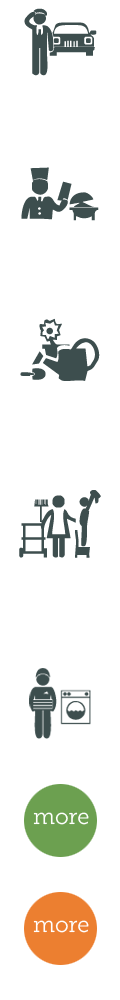
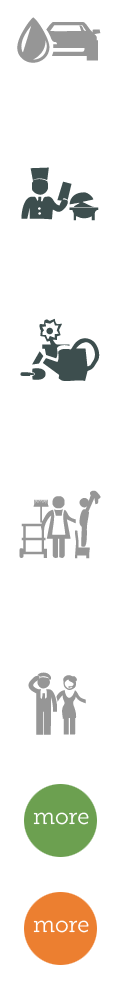
Updated password alignment and services
git-svn-id: https://subversion.assembla.com/svn/kushghar/trunk@26 0e8525e9-3983-421d-bfb9-d0e812aa3877

diff --git a/KushGhar/css/styles.css b/KushGhar/css/styles.css
@@ -153,7 +153,7 @@ textarea, input[type="text"], input[type="password"], input[type="datetime"], in
 .services ul li{ border-left:1px solid #ccc; float:left; }
 .services ul li .services_last-child{ border-right:1px solid #ccc; }
 .services ul li a{text-align:center; margin:auto; width:100%}
-.services ul li a.housecleaning, .services ul li a.gardening, .services ul li a.laundry, .services ul li a.driver, .services ul li a.chef, .services ul li a.more, .services ul li a:hover{ background-image:url(../images/services_icon.png) ; width:120px;height:100px;}
+.services ul li a.housecleaning, .services ul li a.gardening, .services ul li a.laundry, .services ul li a.driver, .services ul li a.chef, .services ul li a.more, .services ul li a:hover{ background-image:url(../images/services_icon.png) ; width:140px;height:100px;}
 .services ul li a:hover, .services ul li a:focus{ text-decoration:none;}
 .services ul li a span{ font-size:18px; font-family:MuseoSlab700; color:#f58220; text-align:center; display:block; text-decoration:none; padding-top:80px}
 .services ul li a:hover span{color:#6ca050; text-decoration:none}
@@ -256,6 +256,7 @@ ul.header_profile{ list-style:none; margin:0; padding:0}
 	
 	}
 	@media (max-width: 320px) {
+            .welcome_text{font-size:12px;}
 		.header_menu_items{ float:none}
 		.getStarted_dd_div, .Login_dd_div{left:-35px;text-align:left; width:285px}
 		

diff --git a/KushGhar/protected/views/user/basicinfo.php b/KushGhar/protected/views/user/basicinfo.php
@@ -219,7 +219,7 @@
                                         <?php   echo CHtml::ajaxButton('Continue', array('user/basicinfo'), array(
                                                         'type' => 'POST',
                                                         'dataType' => 'json',
-                                                        'success' => 'function(data,status,xhr) { addBasicInformationhandler(data,status,xhr);}'), array('class' => 'btn btn-large'));
+                                                        'success' => 'function(data,status,xhr) { addBasicInformationhandler(data,status,xhr);}'), array('class' => 'btn btn-primary'));
                                          ?>
                                         </div>
                                     </div>
@@ -237,6 +237,7 @@
                                   )
                             ));?>
                             <?php echo $form->error($updatedPassword, 'error'); ?>
+                            <hr> 
                             <fieldset>
                                 <div class="row-fluid">
                                     <div class=" span4">
@@ -250,11 +251,12 @@
                                         <?php echo $form->error($updatedPassword, 'RepeatPassword'); ?>
                                     </div>
                                     <div class=" span4">
-                                       <?php echo CHtml::ajaxButton('Update', array('user/updatedPsw'), array(
+                                        <div  class=" paddingT30">
+                                       <?php echo CHtml::ajaxButton('Update Password', array('user/updatedPsw'), array(
                                             'type' => 'POST',
                                             'dataType' => 'json',
-                                            'success' => 'function(data,status,xhr) { updatePasswordhandler(data,status,xhr);}'), array('class' => 'btn btn-large', 'type' => 'submit'));
-                                    ?>
+                                            'success' => 'function(data,status,xhr) { updatePasswordhandler(data,status,xhr);}'), array('class' => 'btn btn-primary', 'type' => 'submit'));
+                                    ?></div>
                                     </div>
                                 </div>
 

diff --git a/KushGhar/protected/views/layouts/header_prelogin.php b/KushGhar/protected/views/layouts/header_prelogin.php
@@ -70,14 +70,17 @@
     <header class="inner_header">
         <div class="container">
             <div class="row-fluid">
+
+                <div class="pull-left">
+
                 <?php if (!empty($this->session['UserId'])) { ?>
-                <div class="span3">
+                
                     <a href="/user/basicinfo"><img src="<?php echo Yii::app()->request->baseUrl; ?>/images/inner_top_logo.png" alt="logo" class="logo"></a>
                 </div>
             
-                <div class="span8">
+                <div class="pull-right">
                     <ul class=" pull-right header_profile">
-                        <li class=" pull-left welcome_text">Welcome <?php echo $this->session['firstName']; ?></li>
+                        <li id="welcome" class=" pull-left welcome_text">Welcome <?php echo $this->session['firstName']; ?></li>
                         <li class=" pull-left  header_profile_settings dropdown">
                             <a data-original-title="Register" href="#"  data-placement="bottom"  class=" headeranchor" data-toggle="dropdown" id="drop3">
                                 <img src="<?php if ($this->session['LoginPic'] == '') { echo '/images/dummy_pp.jpg';} else {echo $this->session['LoginPic'];} ?>" >

diff --git a/KushGhar/protected/views/site/index.php b/KushGhar/protected/views/site/index.php
@@ -79,12 +79,11 @@ one home at a time</div>
    <div class="row-fluid paddingT10" >
    <div class="services">
    <ul>
-   	<li><a href="#" class="housecleaning"> <span>Cleaning</span> </a></li>
-    <li><a href="#" class="gardening"><span>Gardening</span></a></li>
-    <li><a href="#" class="laundry"><span>Laundry</span></a></li>
-    <li><a href="#" class="driver"><span>Driver</span></a></li>
-    <li> <a href="#" class="chef"><span>Chef</span></a></li>
-    <li><a href="#" class="more"></a></li>
+        <li><a href="#" class="housecleaning"> <span>Cleaning</span> </a></li>
+        <li><a href="#" class="driver"><span>Car Wash</span></a></li>
+        <li><a href="#" class="laundry"><span>Stewards/<br/>Stewardesses</span></a></li>
+        
+        <li><a href="#" class="more"></a></li>
    </ul>
    </div>
    </div>

diff --git a/KushGhar/protected/views/layouts/footer.php b/KushGhar/protected/views/layouts/footer.php
@@ -36,10 +36,10 @@
 <script type="text/javascript">
     jwplayer('container').setup({
         file: '/images/KushgharIntro-360p.mp4',
-        image : '/images/video_img.png'
+        image : '/images/video_img.png',
         
-        /*width: '100'+"%",
-        aspectratio: '10:3',
+        width: '100'+"%"
+        /*aspectratio: '10:3',
         height:'250'*/
        
     });

diff --git a/KushGhar/protected/config/main.php b/KushGhar/protected/config/main.php
@@ -106,6 +106,6 @@ return array(
 	'params'=>array(
 		// this is used in contact page
 		'adminEmail'=>'webmaster@example.com',
-            'SERVER_URL'=>'http://10.10.73.107:6060',
+            'SERVER_URL'=>'http://115.248.17.88:6060',
 	),
 );
